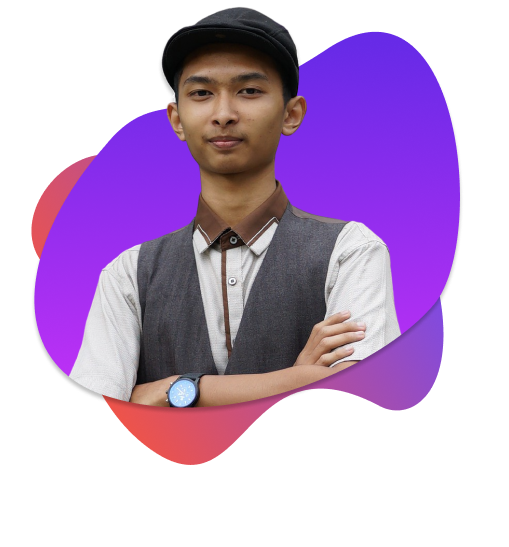
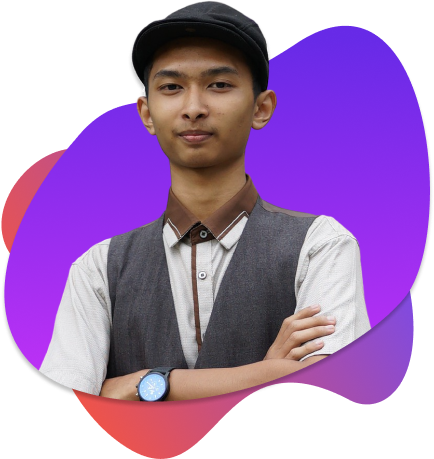
add: hero section

diff --git a/components/Hero.tsx b/components/Hero.tsx
@@ -1,0 +1,82 @@
+import Image from "next/image";
+import { FontAwesomeIcon } from "@fortawesome/react-fontawesome";
+import {
+  faGithub,
+  faYoutube,
+  faLinkedin,
+  faInstagram,
+} from "@fortawesome/free-brands-svg-icons";
+
+export default function Hero() {
+  return (
+    <div className="bg-gradient-to-tr from-dark1 via-dark1 to-dark3 min-h-full">
+      <div className="container mx-auto px-6 py-12">
+        <div className="flex flex-col-reverse md:flex-row gap-y-5 sm:gap-y-10 md:gap-y-0 md:gap-x-20">
+          <div className="md:w-1/2 flex items-center">
+            <div>
+              <div className="text-xl sm:text-2xl lg:text-3xl font-bold">
+                <h1>Hello,Friends !</h1>
+                <h1>My Name is</h1>
+                <h1 className="text-transparent bg-clip-text bg-gradient-to-r from-peach to-grape">
+                  M. Auliya Mirzaq Romdloni
+                </h1>
+              </div>
+              <div className="text-xs sm:text-base md:text-base lg:text-lg">
+                <p className="font-light my-2 tracking-widest ">
+                  Front End Enthusiast | Web Developer
+                </p>
+                <p>
+                  Hi guys let me introduce myself, my name is M. Auliya Mirzaq
+                  Romdloni and you can call me{" "}
+                  <span className="text-pink-500 font-semibold">Mirzaq</span>.
+                  I'm undergraduate student at Institut Teknologi Sepuluh
+                  Nopember.
+                </p>
+                <a
+                  href="#"
+                  className="font-bold border inline-block border-white px-4 py-3 rounded-md mt-4 hover:bg-white hover:text-dark1 transition-all duration-300"
+                >
+                  About Me
+                </a>
+              </div>
+            </div>
+          </div>
+          <div className="md:w-1/2 px-10 md:p-0 text-center md:text-right">
+            <Image
+              src="/assets/img/hero.webp"
+              alt="Mirzaq's Portfolio"
+              width={400}
+              height={430}
+            />
+          </div>
+        </div>
+        <div className="mt-10 text-lg sm:text-2xl">
+          <div className="flex gap-x-4 sm:gap-x-5 my-3">
+            <a href="#">
+              <FontAwesomeIcon icon={faLinkedin} />
+            </a>
+            <a href="#">
+              <FontAwesomeIcon icon={faGithub} />
+            </a>
+            <a href="#">
+              <FontAwesomeIcon icon={faInstagram} />
+            </a>
+            <a href="#">
+              <FontAwesomeIcon icon={faYoutube} />
+            </a>
+          </div>
+          <p className="text-sm font-semibold sm:text-xl">
+            Download{" "}
+            <a
+              title="Download My Curriculum Vitae"
+              href="#"
+              className="text-peach"
+            >
+              Curriculum Vitae
+            </a>
+          </p>
+        </div>
+      </div>
+    </div>
+  );
+}

diff --git a/pages/index.tsx b/pages/index.tsx
@@ -1,7 +1,7 @@
 import type { NextPage } from "next";
 import Head from "next/head";
 import Navbar from "../components/Navbar";
-
+import Hero from "../components/Hero";
 const Home: NextPage = () => {
   return (
     <div>
@@ -14,6 +14,7 @@ const Home: NextPage = () => {
         <link rel="icon" href="/favicon.ico" />
       </Head>
       <Navbar />
+      <Hero />
     </div>
   );
 };
